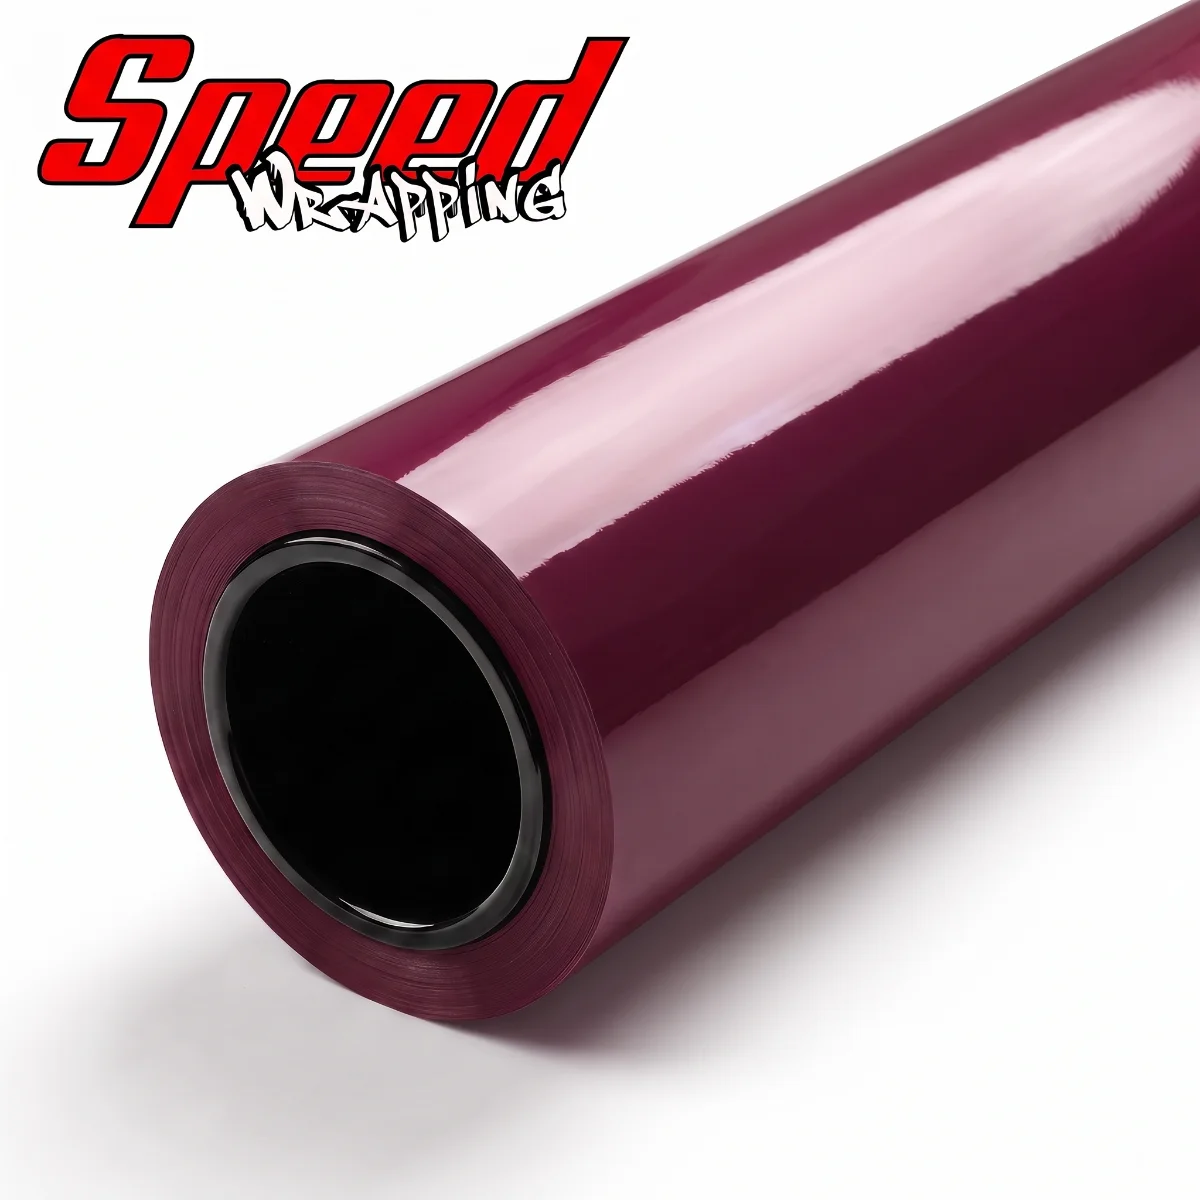
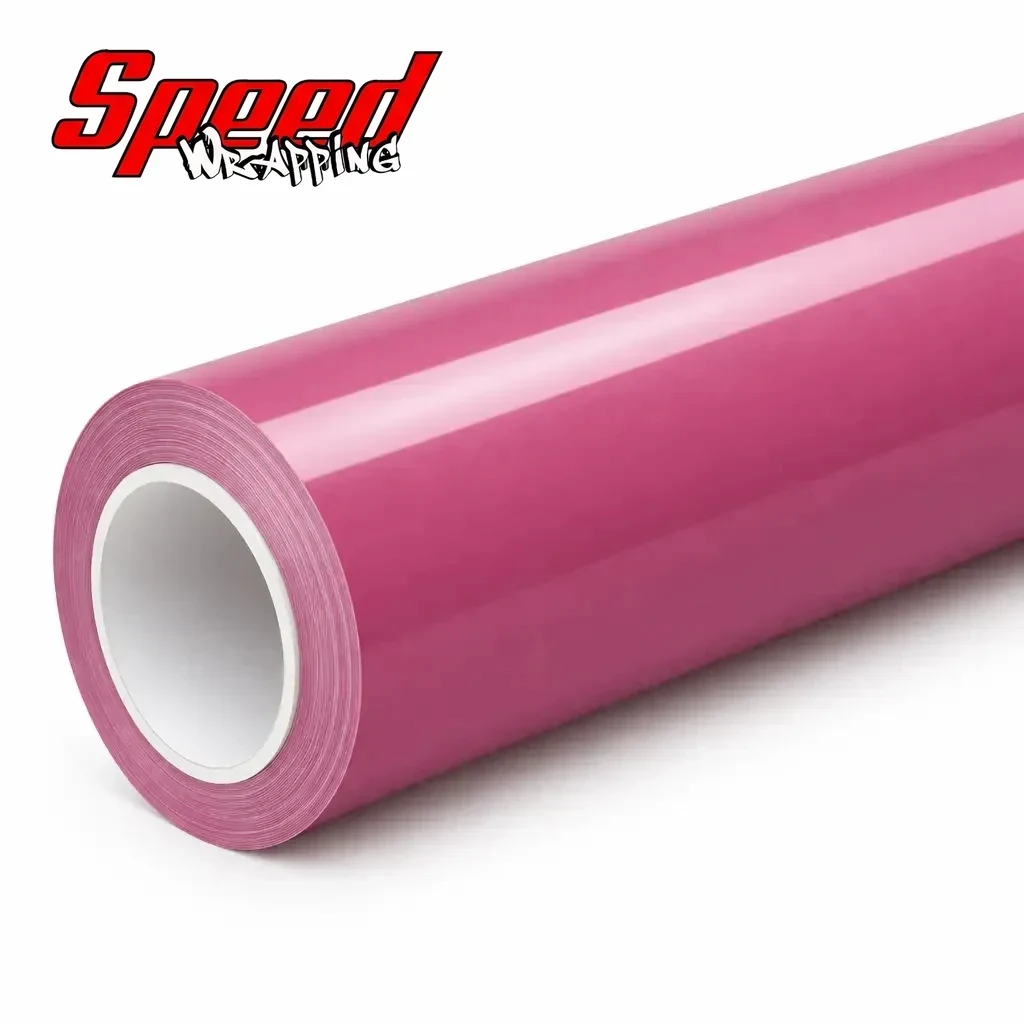
feat(esg-031): quatro fotos Civic Type R + capa nova na leitura (#B24E74)

diff --git a/docs/CAPAS_SPEED_WRAPPING.md b/docs/CAPAS_SPEED_WRAPPING.md
@@ -1,0 +1,191 @@
+# Capas de rolo Speed Wrapping — padrão
+
+Fechado e aprovado na **ESG-030 Super Gloss Gem Red** (set/2026). Vale para todas
+as cores da marca, em todas as linhas: ESG, EMA, EGL, EGB, EMR.
+
+Método de cor em [`FOTOS_DE_COR_AUTOMOTIVA.md`](./FOTOS_DE_COR_AUTOMOTIVA.md).
+Perfil de acabamento por linha, na seção "Acabamentos" do mesmo manual.
+
+---
+
+## O que estava errado no primeiro lote
+
+Duas coisas, e as duas valem para conferir qualquer capa antiga antes de reusar:
+
+1. **Tubete preto.** O tubete da Speed Wrapping é **BRANCO**. O lote original saiu
+   com tubete preto, que não existe no produto.
+2. **Cor tirada do nome cadastrado, não da amostra.** A ESG-030 está cadastrada
+   como "black gem red" e a capa saiu quase preta (V 10,6) quando a amostra física
+   lê V 60. **Nome de cadastro não é fonte de cor.**
+
+---
+
+## Composição
+
+Quadrado, **1:1**. Fundo branco de estúdio, sem gradiente de cenário, com sombra
+de contato suave sob o cilindro.
+
+O rolo atravessa o quadro **na diagonal**:
+
+- **Ponta cortada à frente, no canto inferior esquerdo**, grande, mostrando a face
+  aberta como uma elipse larga.
+- **Cilindro recuando para o canto superior direito**, saindo do quadro pela borda
+  direita.
+- Câmera **um pouco acima** do rolo.
+- **Canto superior esquerdo vazio** — é onde a marca entra depois.
+
+Essa é a diagramação do template original e está aprovada. Não mexer.
+
+## A ponta cortada — é o que faz parecer rolo de verdade
+
+Foi o que faltava nas capas antigas. Três elementos, do lado de fora para dentro:
+
+1. **Banda concêntrica estreita** com as estrias finas das centenas de voltas do
+   material enrolado, **um pouco mais clara e mais fosca** que a face brilhante.
+2. **Tubete BRANCO** — tubo de papelão branco, com **espessura de parede visível**.
+3. **Furo interno em sombra suave**, não em preto chapado.
+
+## Superfície
+
+Segue o perfil de acabamento da linha. Para a ESG (super gloss sólido): campo de
+cor cremoso e uniforme, **um único filete especular branco, largo e de borda macia,
+correndo o comprimento do cilindro pela parte de cima**, com gradiente descendo
+para um tom mais fundo na aba de baixo. Sem casca de laranja. Sem flake.
+
+## Marca — nunca pedir ao modelo
+
+Capa gerada sai **sem logotipo**: pedir a marca na geração devolve letra torta e
+nome errado. O logotipo oficial entra por **composição**, a partir do recorte com
+canal alfa em `scripts/data/marca-speed-wrapping.png` — extraído uma vez de uma
+capa aprovada, então é pixel a pixel igual em toda a linha.
+
+Parâmetros no manifesto, em fração do lado da capa:
+
+```json
+"logo": {
+  "arquivo": "scripts/data/marca-speed-wrapping.png",
+  "largura": 0.26,
+  "esquerda": 0.025,
+  "topo": 0.025
+}
+```
+
+**0,26 é o tamanho certo, e isso custou uma rodada.** A primeira tentativa usou
+0,525 — a marca cobria 96% da largura, passava por cima do rolo e ficava enorme no
+site. A 0,26 ela ocupa 37% da largura medida no vermelho, fecha em 17% da altura, e
+o material só começa na metade do quadro. Folga confortável.
+
+## Cor
+
+Alvo é sempre a **leitura da amostra física**, medida na janela limpa de filme.
+Depois de gerar, fechar por aritmética:
+
+```
+python3 scripts/recolorir-capa.py \
+  --entrada public/assets/images/shop/speed-wrapping/{slug}.webp \
+  --alvo '#98144E' --familia rosa --no-lugar
+```
+
+A máscara é por faixa de matiz, então **a marca fica fora dela sozinha**: o
+vermelho do logotipo lê matiz ~1° e nenhuma faixa cromática do filme chega lá.
+Conferido na ESG-030 — depois de duas passadas de correção o vermelho seguia em
+1,3°. Não precisa de proteção especial.
+
+Costuma pedir **duas passadas**: a primeira encosta, a segunda fecha. O webp é
+lossy e a releitura muda um pouco.
+
+**Resultado de referência (ESG-030):** alvo `#98144E` · H 333,6 · S 86,8 · V 59,6 →
+final `#981451` · H 334,0 · S 87,0 · V 59,5. Desvio de 0,4 no matiz e 0,2 na
+saturação, sem estouro.
+
+## Quando a capa antiga dá para aproveitar
+
+Se o desvio couber na gama, recolorir sai mais barato que gerar. Se não couber
+— a ESG-030 precisava de V 10,6 → 60 —, há duas saídas:
+
+- **Gerar de novo**, seguindo tudo acima. É o caminho quando a capa antiga também
+  tem defeito estrutural, como o tubete preto.
+- **Usar outra capa da linha como doadora**, se a composição dela estiver boa. Como
+  todas saem do mesmo template, qualquer uma serve: escolha a mais próxima em
+  saturação e valor, prefira matiz longe do vermelho do logo, e fique a 20° das
+  bordas da faixa de matiz. Detalhe em `FOTOS_DE_COR_AUTOMOTIVA.md`, seção
+  "Quando a capa está longe demais".
+
+---
+
+## Prompt de capa, pronto
+
+Trocar o bloco de COR e o de SUPERFÍCIE conforme a cor e a linha.
+
+> Photorealistic studio product photograph of a single large roll of automotive
+> vinyl wrap film, on a pure white seamless background.
+>
+> COMPOSITION — the roll lies diagonally across the frame: the CUT END faces the
+> lower-left, large in the foreground, and the cylinder recedes toward the
+> upper-right, running out of frame at the right edge. The cut end is a wide
+> ellipse. The upper-left corner of the image is EMPTY white space. Camera
+> slightly above the roll. Soft contact shadow under the cylinder on the white
+> floor.
+>
+> THE FILM COLOR: *(descrição + hex da leitura da amostra)*
+>
+> THE FILM SURFACE: *(perfil de acabamento da linha — para a ESG, o texto de
+> SUPER GLOSS SÓLIDO do manual)*. The gloss appears as ONE long, broad,
+> soft-edged white specular highlight running the length of the cylinder along its
+> upper side, with a smooth gradient falling off to a deeper shade on the lower
+> flank.
+>
+> THE CUT END — this is what makes it look real, render it carefully: the spiral
+> edge of the tightly wound film is visible as a narrow concentric band around the
+> opening, showing the fine layered striations of hundreds of wraps of material,
+> slightly lighter and more matte than the glossy outer face. Inside that band
+> sits the CORE TUBE, and the core is WHITE — a clean white cardboard tube with a
+> visible wall thickness, its inner bore in soft shadow. The core must be WHITE,
+> not black, not dark.
+>
+> DETAILS: absolutely NO text, NO logo, NO letters, NO branding, NO label, NO
+> watermark anywhere in the image. Clean white studio background, even soft
+> lighting from above and slightly to the left, gentle falloff. Photorealistic
+> commercial product photography, sharp focus across the roll, high resolution.
+
+Gerar **2 variações** e escolher: a posição do rolo varia um pouco entre elas, e
+interessa a que deixa mais folga no canto superior esquerdo.
+
+---
+
+## Publicação
+
+Entrada no manifesto `scripts/data/publicacao.json`. A Speed Wrapping guarda as
+imagens em caminho próprio, então os três campos de destino são obrigatórios:
+
+```json
+"destino":      "public/assets/images/shop/speed-wrapping/aplicacao",
+"url_base":     "/assets/images/shop/speed-wrapping/aplicacao",
+"destino_capa": "public/assets/images/shop/speed-wrapping",
+"familia":      "rosa",
+"capa":         "<url da geração aprovada>",
+"logo":         { ... }
+```
+
+Sequência:
+
+```
+node scripts/publicar-cor.mjs <slug>            # baixa tudo e aplica a marca
+node scripts/publicar-cor.mjs <slug> --so-capa  # refaz SÓ a capa, preserva as fotos corrigidas
+node scripts/publicar-cor.mjs <slug> --commit   # commita, sobe, espera o deploy e grava no banco
+```
+
+**Corrigir a cor entre o download e o commit.** O `--so-capa` rebaixa a capa crua,
+então a correção precisa ser refeita depois dele.
+
+**Cache do navegador.** O nome do arquivo não muda, então quem já abriu a página
+continua vendo a capa antiga. Ctrl+F5 ou janela anônima. Não é bug de deploy —
+conferir sempre pelo arquivo no ar antes de mexer em qualquer coisa.
+
+---
+
+## Cores fechadas neste padrão
+
+| Cor | Leitura | Acabamento | Capa final |
+|---|---|---|---|
+| ESG-030 Super Gloss Gem Red | `#98144E` · H 334 · S 87 · V 60 | super gloss sólido | `#981451` |

diff --git a/docs/FOTOS_DE_COR_AUTOMOTIVA.md b/docs/FOTOS_DE_COR_AUTOMOTIVA.md
@@ -404,11 +404,22 @@ marca d'água, sem adesivo de patrocínio.
 | MCX-66 Army Olive | Land Rover Defender 110 | pátio de pedra rural |
 | MCX-65 Carbon Green | Porsche 911 992 | mirante de estrada de montanha |
 | MCX-73 Capri Bronze | VW Golf R Mk8 | pátio de serviço industrial |
+| ESG-030 Gem Red | Toyota GR Supra A90 | pátio de concreto com prédio de vidro |
+| ESG-031 Plum Magenta | Honda Civic Type R FL5 | cais de porto de carga, guindastes pórtico |
 
 Quando o fabricante já escolheu um carro na brochure, é uma boa escolha — foi o
 caso do Golf na Capri Bronze e do M4 na Bavarian Blue. E quando a cor reproduz
 uma tinta OEM, use o carro daquela marca: Green Hell Magno foi feita para o
 AMG GT R.
+
+> **O cenário genérico é uma regressão, e ela acontece sozinha.** Nas primeiras
+> cores da Speed Wrapping eu fui escrevendo "clean concrete forecourt, neutral
+> grey surfaces" em todas, porque é o pedido mais seguro para não contaminar a
+> cor. O resultado é catálogo de renderização, não de fotografia: sem contexto,
+> sem lugar, todas as cores no mesmo vazio. O padrão é **cenário com caráter**
+> — paddock, mirante, cais, pátio de pedra — escolhido para ficar fora da faixa
+> de matiz da cor, mais os detalhes de verossimilhança da seção acima. Neutro é
+> a exceção, para cor de baixa saturação, não a regra.
 
 ---
 
